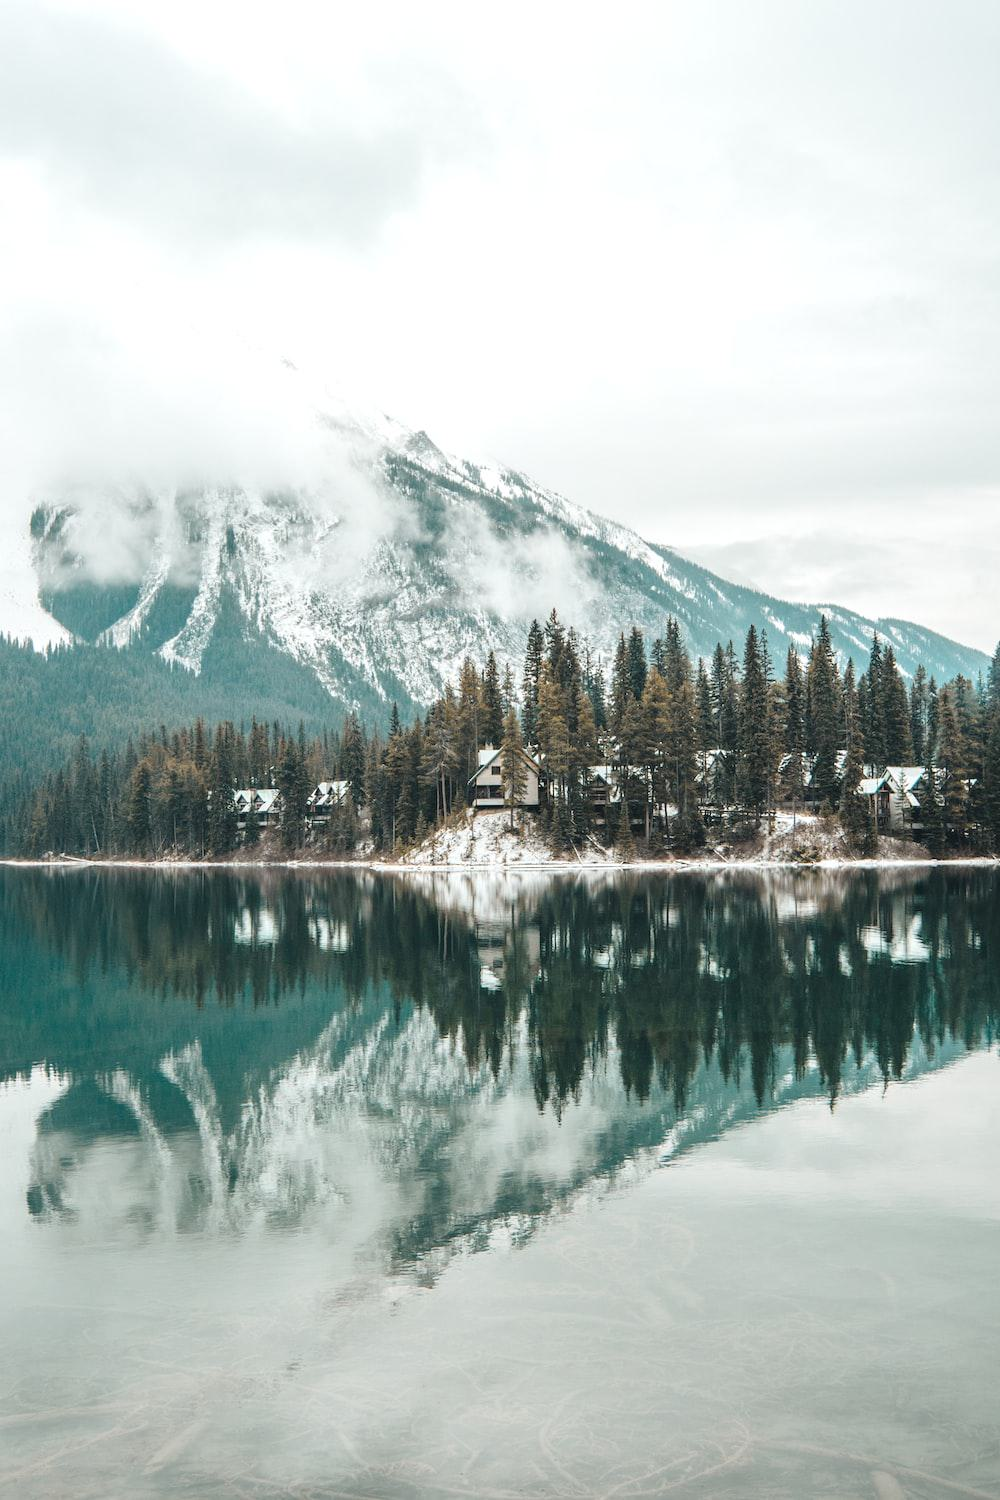
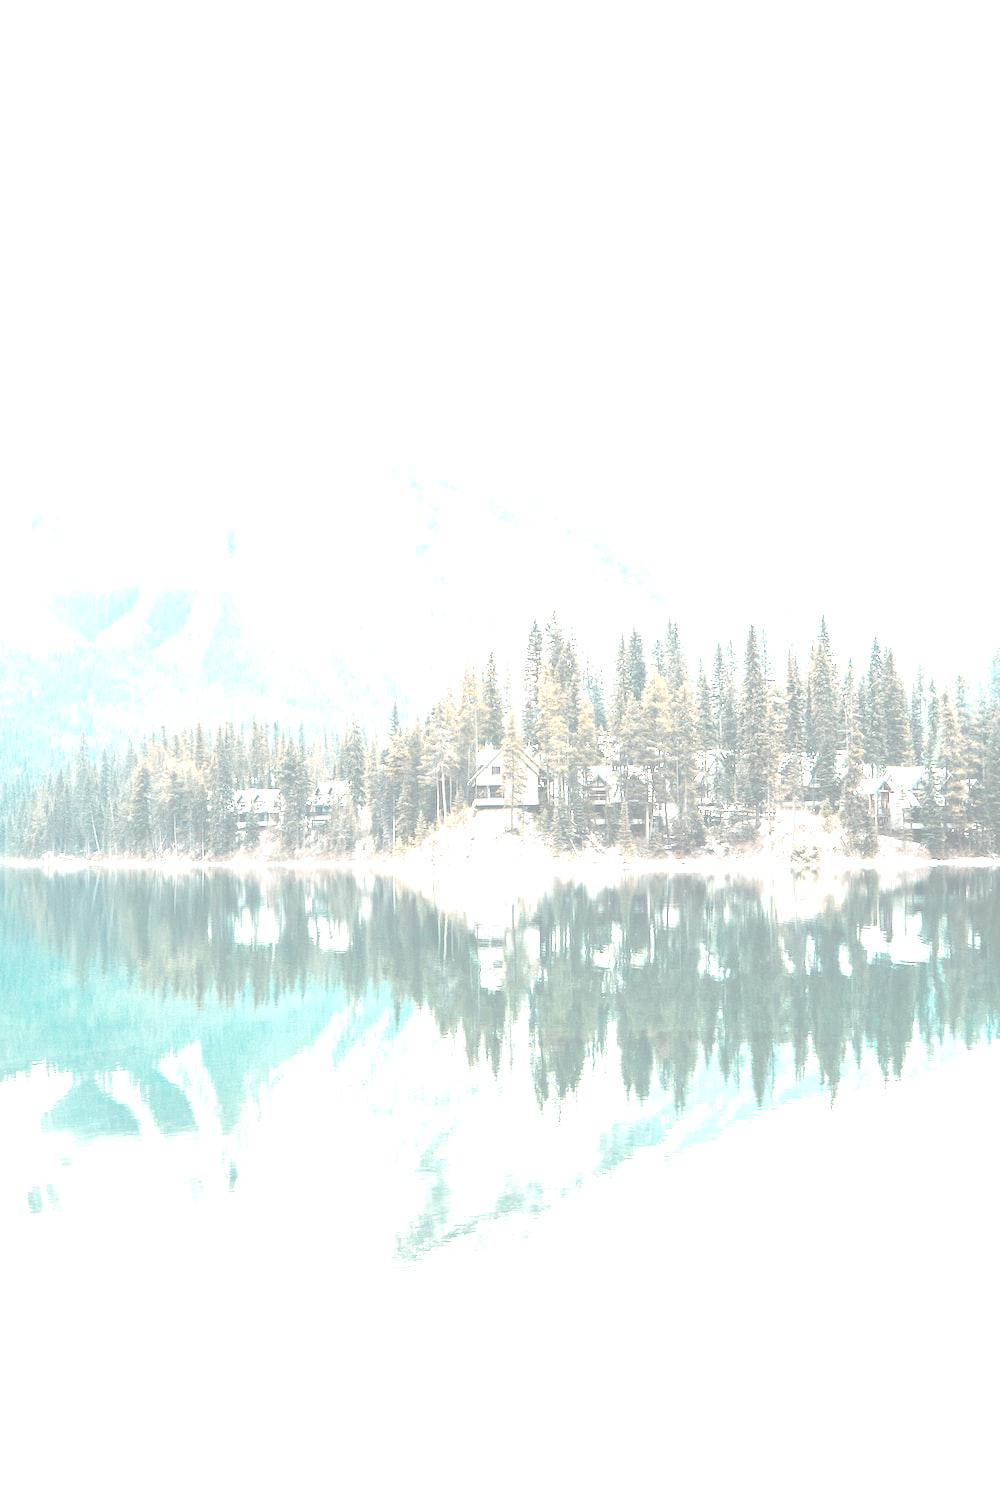
code for task 1

diff --git a/ass.2/que2.py b/ass.2/que2.py
@@ -1,10 +1,20 @@
 from PIL import Image
 
+import time
+
+current_time = int(time.time())
+
+generated_number = (current_time % 100) + 50
+
+if generated_number % 2 == 0:
+    generated_number += 10
+
+print(generated_number)
+
 # Load the image and modify pixels
 image = Image.open('Chapter1.jpg')
 pixels = list(image.getdata())
-
-n=10
+n=generated_number
 upgraded_pixels = [(r + n, g + n, b + n) for r, g, b in pixels]
 # want to creat the same thing with the g and b and compair the output as like (r + n, g + n, b + n) for r
 new_image = Image.new(image.mode, image.size)
